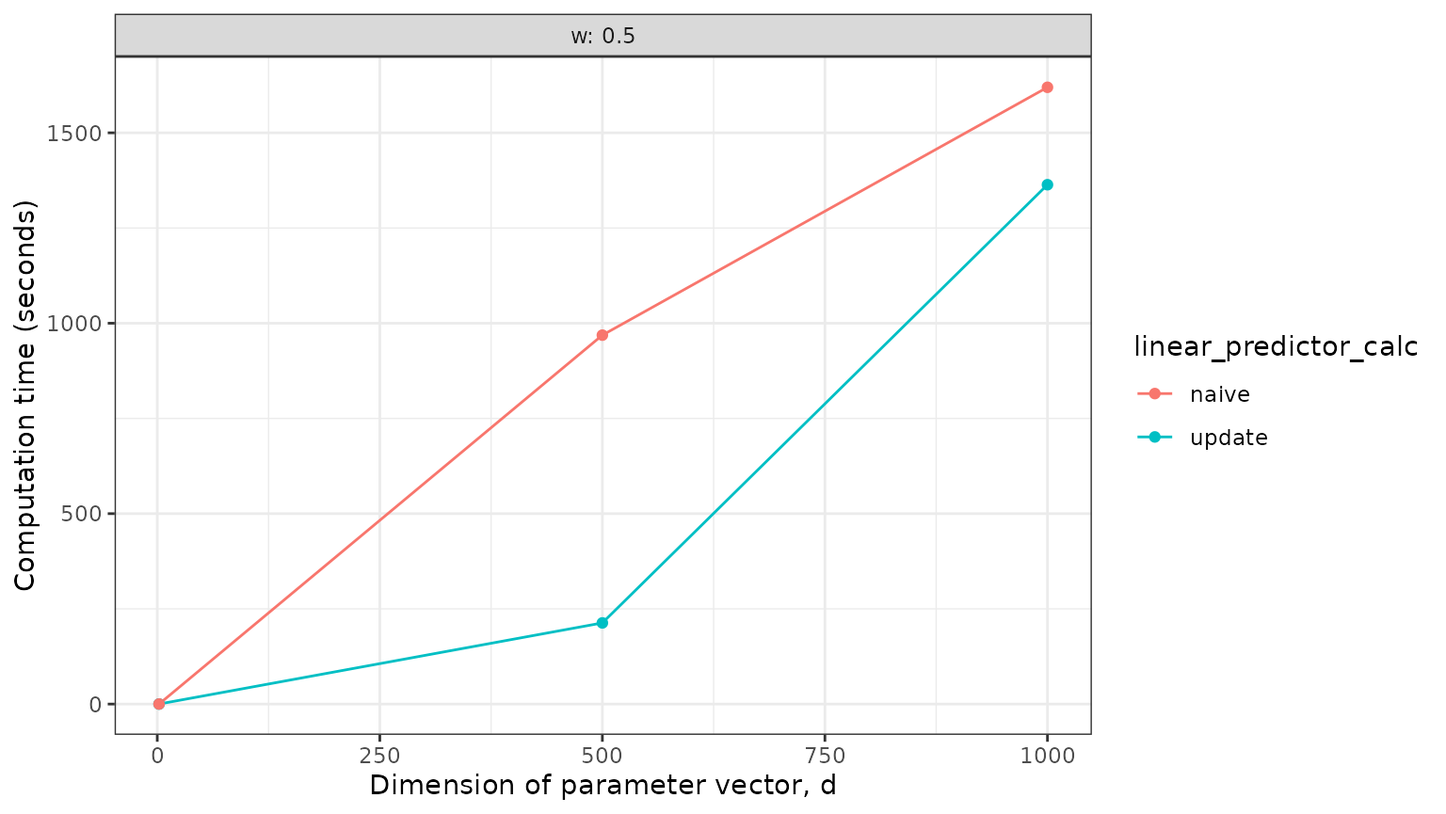
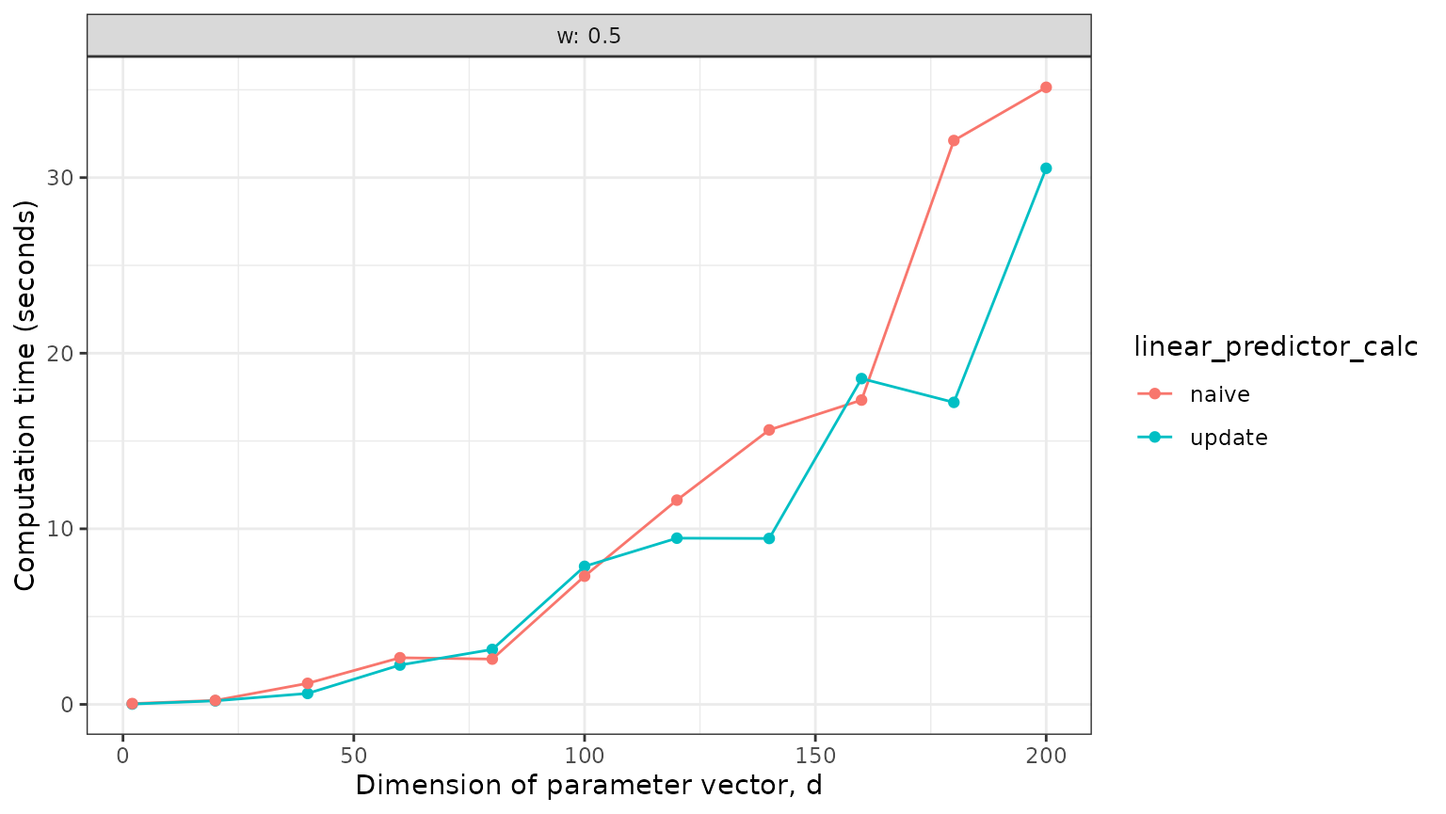
Deploying to gh-pages from @ mathiaslj/mcmcglm@d90c8f59d16a6edef23675d2b547757fa00a66b0 🚀

diff --git a/reference/compare_eta_comptime_across_nvars.html b/reference/compare_eta_comptime_across_nvars.html
@@ -145,40 +145,40 @@ than the number of available cores</p></dd>
 <span class="r-in"><span><span class="fu">compare_eta_comptime_across_nvars</span><span class="op">(</span>n_vars <span class="op">=</span> <span class="fu"><a href="https://rdrr.io/r/base/c.html" class="external-link">c</a></span><span class="op">(</span><span class="fl">2</span>, <span class="fu"><a href="https://rdrr.io/r/base/seq.html" class="external-link">seq</a></span><span class="op">(</span>from <span class="op">=</span> <span class="fl">20</span>, to <span class="op">=</span> <span class="fl">60</span>, by <span class="op">=</span> <span class="fl">20</span><span class="op">)</span><span class="op">)</span>,</span></span>
 <span class="r-in"><span>                                  n_samples <span class="op">=</span> <span class="fl">100</span>,</span></span>
 <span class="r-in"><span>                                  burnin <span class="op">=</span> <span class="fl">20</span><span class="op">)</span></span></span>
-<span class="r-msg co"><span class="r-pr">#&gt;</span> Sampling from posterior <span style="color: #00BB00;">■■■■■■■■                        </span>  22% | ETA:  4s</span>
+<span class="r-msg co"><span class="r-pr">#&gt;</span> Sampling from posterior <span style="color: #00BB00;">■■■■■■■                         </span>  21% | ETA:  4s</span>
+<span class="r-msg co"><span class="r-pr">#&gt;</span> Sampling from posterior <span style="color: #00BB00;">■■■■■■■■■■■■■■■■■■■■■■■■■■■■■■  </span>  96% | ETA:  0s</span>
 <span class="r-msg co"><span class="r-pr">#&gt;</span> Sampling from posterior <span style="color: #00BB00;">■■■■■■■■■■■■■■■■■■■■■■■■■■■■■■■ </span> 100% | ETA:  0s</span>
-<span class="r-msg co"><span class="r-pr">#&gt;</span> Sampling from posterior <span style="color: #00BB00;">■■■■■■■                         </span>  19% | ETA:  4s</span>
-<span class="r-msg co"><span class="r-pr">#&gt;</span> Sampling from posterior <span style="color: #00BB00;">■■■■■■■■■■■■■■■■■■■■■■■■■■■     </span>  86% | ETA:  1s</span>
+<span class="r-msg co"><span class="r-pr">#&gt;</span> Sampling from posterior <span style="color: #00BB00;">■■■■■■■■■■■■■■■■■■■■■■■         </span>  72% | ETA:  1s</span>
 <span class="r-msg co"><span class="r-pr">#&gt;</span> Sampling from posterior <span style="color: #00BB00;">■■■■■■■■■■■■■■■■■■■■■■■■■■■■■■■ </span> 100% | ETA:  0s</span>
-<span class="r-msg co"><span class="r-pr">#&gt;</span> Sampling from posterior <span style="color: #00BB00;">■■■■■■                          </span>  17% | ETA: 13s</span>
-<span class="r-msg co"><span class="r-pr">#&gt;</span> Sampling from posterior <span style="color: #00BB00;">■■■■■■■■■■■■■■■■■■              </span>  57% | ETA:  4s</span>
-<span class="r-msg co"><span class="r-pr">#&gt;</span> Sampling from posterior <span style="color: #00BB00;">■■■■■■■■■■■■■■■■■■■■■■■■■■■■■■  </span>  97% | ETA:  0s</span>
+<span class="r-msg co"><span class="r-pr">#&gt;</span> Sampling from posterior <span style="color: #00BB00;">■■■■                            </span>   9% | ETA: 20s</span>
+<span class="r-msg co"><span class="r-pr">#&gt;</span> Sampling from posterior <span style="color: #00BB00;">■■■■■■■■■■■■■■■                 </span>  48% | ETA:  5s</span>
+<span class="r-msg co"><span class="r-pr">#&gt;</span> Sampling from posterior <span style="color: #00BB00;">■■■■■■■■■■■■■■■■■■■■■■■■■■■     </span>  88% | ETA:  1s</span>
 <span class="r-msg co"><span class="r-pr">#&gt;</span> Sampling from posterior <span style="color: #00BB00;">■■■■■■■■■■■■■■■■■■■■■■■■■■■■■■■ </span> 100% | ETA:  0s</span>
-<span class="r-msg co"><span class="r-pr">#&gt;</span> Sampling from posterior <span style="color: #00BB00;">■■■■■■■                         </span>  20% | ETA: 11s</span>
-<span class="r-msg co"><span class="r-pr">#&gt;</span> Sampling from posterior <span style="color: #00BB00;">■■■■■■■■■■■■■■■■■■              </span>  58% | ETA:  4s</span>
-<span class="r-msg co"><span class="r-pr">#&gt;</span> Sampling from posterior <span style="color: #00BB00;">■■■■■■■■■■■■■■■■■■■■■■■■■■■■■■  </span>  98% | ETA:  0s</span>
-<span class="r-msg co"><span class="r-pr">#&gt;</span> Sampling from posterior <span style="color: #00BB00;">■■■■■■■■■■■■■■■■■■■■■■■■■■■■■■■ </span> 100% | ETA:  0s</span>
-<span class="r-msg co"><span class="r-pr">#&gt;</span> Sampling from posterior <span style="color: #00BB00;">■■                              </span>   3% | ETA:  2m</span>
-<span class="r-msg co"><span class="r-pr">#&gt;</span> Sampling from posterior <span style="color: #00BB00;">■■■■■■                          </span>  17% | ETA: 29s</span>
-<span class="r-msg co"><span class="r-pr">#&gt;</span> Sampling from posterior <span style="color: #00BB00;">■■■■■■■■■■■■                    </span>  37% | ETA: 15s</span>
-<span class="r-msg co"><span class="r-pr">#&gt;</span> Sampling from posterior <span style="color: #00BB00;">■■■■■■■■■■■■■■■■■■■             </span>  59% | ETA:  8s</span>
-<span class="r-msg co"><span class="r-pr">#&gt;</span> Sampling from posterior <span style="color: #00BB00;">■■■■■■■■■■■■■■■■■■■■■■■■■■      </span>  82% | ETA:  3s</span>
+<span class="r-msg co"><span class="r-pr">#&gt;</span> Sampling from posterior <span style="color: #00BB00;">■■■■                            </span>  10% | ETA: 18s</span>
+<span class="r-msg co"><span class="r-pr">#&gt;</span> Sampling from posterior <span style="color: #00BB00;">■■■■■■■■■■■■■■■                 </span>  47% | ETA:  6s</span>
+<span class="r-msg co"><span class="r-pr">#&gt;</span> Sampling from posterior <span style="color: #00BB00;">■■■■■■■■■■■■■■■■■■■■■■■■■■■     </span>  85% | ETA:  1s</span>
 <span class="r-msg co"><span class="r-pr">#&gt;</span> Sampling from posterior <span style="color: #00BB00;">■■■■■■■■■■■■■■■■■■■■■■■■■■■■■■■ </span> 100% | ETA:  0s</span>
 <span class="r-msg co"><span class="r-pr">#&gt;</span> Sampling from posterior <span style="color: #00BB00;">■                               </span>   1% | ETA:  3m</span>
-<span class="r-msg co"><span class="r-pr">#&gt;</span> Sampling from posterior <span style="color: #00BB00;">■■■■■■                          </span>  16% | ETA: 20s</span>
-<span class="r-msg co"><span class="r-pr">#&gt;</span> Sampling from posterior <span style="color: #00BB00;">■■■■■■■■■■■■■                   </span>  40% | ETA: 10s</span>
-<span class="r-msg co"><span class="r-pr">#&gt;</span> Sampling from posterior <span style="color: #00BB00;">■■■■■■■■■■■■■■■■■■■■■           </span>  65% | ETA:  5s</span>
-<span class="r-msg co"><span class="r-pr">#&gt;</span> Sampling from posterior <span style="color: #00BB00;">■■■■■■■■■■■■■■■■■■■■■■■■■■■■    </span>  90% | ETA:  1s</span>
+<span class="r-msg co"><span class="r-pr">#&gt;</span> Sampling from posterior <span style="color: #00BB00;">■■■■                            </span>  10% | ETA: 45s</span>
+<span class="r-msg co"><span class="r-pr">#&gt;</span> Sampling from posterior <span style="color: #00BB00;">■■■■■■■■■■                      </span>  29% | ETA: 19s</span>
+<span class="r-msg co"><span class="r-pr">#&gt;</span> Sampling from posterior <span style="color: #00BB00;">■■■■■■■■■■■■■■■■                </span>  50% | ETA: 11s</span>
+<span class="r-msg co"><span class="r-pr">#&gt;</span> Sampling from posterior <span style="color: #00BB00;">■■■■■■■■■■■■■■■■■■■■■■          </span>  71% | ETA:  6s</span>
+<span class="r-msg co"><span class="r-pr">#&gt;</span> Sampling from posterior <span style="color: #00BB00;">■■■■■■■■■■■■■■■■■■■■■■■■■■■■■   </span>  95% | ETA:  1s</span>
+<span class="r-msg co"><span class="r-pr">#&gt;</span> Sampling from posterior <span style="color: #00BB00;">■■■■■■■■■■■■■■■■■■■■■■■■■■■■■■■ </span> 100% | ETA:  0s</span>
+<span class="r-msg co"><span class="r-pr">#&gt;</span> Sampling from posterior <span style="color: #00BB00;">■■                              </span>   4% | ETA:  1m</span>
+<span class="r-msg co"><span class="r-pr">#&gt;</span> Sampling from posterior <span style="color: #00BB00;">■■■■■■■■■                       </span>  27% | ETA: 15s</span>
+<span class="r-msg co"><span class="r-pr">#&gt;</span> Sampling from posterior <span style="color: #00BB00;">■■■■■■■■■■■■■■■■                </span>  51% | ETA:  8s</span>
+<span class="r-msg co"><span class="r-pr">#&gt;</span> Sampling from posterior <span style="color: #00BB00;">■■■■■■■■■■■■■■■■■■■■■■■         </span>  75% | ETA:  4s</span>
 <span class="r-msg co"><span class="r-pr">#&gt;</span> Sampling from posterior <span style="color: #00BB00;">■■■■■■■■■■■■■■■■■■■■■■■■■■■■■■■ </span> 100% | ETA:  0s</span>
 <span class="r-out co"><span class="r-pr">#&gt;</span>              time linear_predictor_calc n_vars n_samples beta_mean</span>
-<span class="r-out co"><span class="r-pr">#&gt;</span> 1  0.3292544 secs                update      2       100         0</span>
-<span class="r-out co"><span class="r-pr">#&gt;</span> 2  0.2867112 secs                 naive      2       100         0</span>
-<span class="r-out co"><span class="r-pr">#&gt;</span> 3  3.6751025 secs                update     20       100         0</span>
-<span class="r-out co"><span class="r-pr">#&gt;</span> 4  3.7558796 secs                 naive     20       100         0</span>
-<span class="r-out co"><span class="r-pr">#&gt;</span> 5  8.7365577 secs                update     40       100         0</span>
-<span class="r-out co"><span class="r-pr">#&gt;</span> 6  8.9789248 secs                 naive     40       100         0</span>
-<span class="r-out co"><span class="r-pr">#&gt;</span> 7 17.0294173 secs                update     60       100         0</span>
-<span class="r-out co"><span class="r-pr">#&gt;</span> 8 14.0301514 secs                 naive     60       100         0</span>
+<span class="r-out co"><span class="r-pr">#&gt;</span> 1  0.3408594 secs                update      2       100         0</span>
+<span class="r-out co"><span class="r-pr">#&gt;</span> 2  0.3128738 secs                 naive      2       100         0</span>
+<span class="r-out co"><span class="r-pr">#&gt;</span> 3  3.7510772 secs                update     20       100         0</span>
+<span class="r-out co"><span class="r-pr">#&gt;</span> 4  3.8055420 secs                 naive     20       100         0</span>
+<span class="r-out co"><span class="r-pr">#&gt;</span> 5  8.9635484 secs                update     40       100         0</span>
+<span class="r-out co"><span class="r-pr">#&gt;</span> 6  9.2256913 secs                 naive     40       100         0</span>
+<span class="r-out co"><span class="r-pr">#&gt;</span> 7 17.5429440 secs                update     60       100         0</span>
+<span class="r-out co"><span class="r-pr">#&gt;</span> 8 14.3304586 secs                 naive     60       100         0</span>
 <span class="r-out co"><span class="r-pr">#&gt;</span>   beta_variance   family sd                 qslice_fun   w parallelised</span>
 <span class="r-out co"><span class="r-pr">#&gt;</span> 1             1 gaussian  1 qslice::slice_stepping_out 0.5        FALSE</span>
 <span class="r-out co"><span class="r-pr">#&gt;</span> 2             1 gaussian  1 qslice::slice_stepping_out 0.5        FALSE</span>

diff --git a/reference/plot_eta_comptime.html b/reference/plot_eta_comptime.html
@@ -75,29 +75,31 @@ affects runtime</p></dd>
 <span class="r-in"><span><span class="va">res</span> <span class="op">&lt;-</span> <span class="fu"><a href="compare_eta_comptime_across_nvars.html">compare_eta_comptime_across_nvars</a></span><span class="op">(</span>n_vars <span class="op">=</span> <span class="fu"><a href="https://rdrr.io/r/base/c.html" class="external-link">c</a></span><span class="op">(</span><span class="fl">2</span>, <span class="fu"><a href="https://rdrr.io/r/base/seq.html" class="external-link">seq</a></span><span class="op">(</span>from <span class="op">=</span> <span class="fl">20</span>, to <span class="op">=</span> <span class="fl">60</span>, by <span class="op">=</span> <span class="fl">20</span><span class="op">)</span><span class="op">)</span>,</span></span>
 <span class="r-in"><span>                                         n_samples <span class="op">=</span> <span class="fl">100</span>,</span></span>
 <span class="r-in"><span>                                         burnin <span class="op">=</span> <span class="fl">20</span><span class="op">)</span></span></span>
-<span class="r-msg co"><span class="r-pr">#&gt;</span> Sampling from posterior <span style="color: #00BB00;">■■■■■■                          </span>  18% | ETA:  5s</span>
-<span class="r-msg co"><span class="r-pr">#&gt;</span> Sampling from posterior <span style="color: #00BB00;">■■■■■■■■■                       </span>  27% | ETA:  4s</span>
+<span class="r-msg co"><span class="r-pr">#&gt;</span> Sampling from posterior <span style="color: #00BB00;">■■■■■■                          </span>  17% | ETA:  5s</span>
+<span class="r-msg co"><span class="r-pr">#&gt;</span> Sampling from posterior <span style="color: #00BB00;">■■■■■■■■■■■                     </span>  35% | ETA:  3s</span>
 <span class="r-msg co"><span class="r-pr">#&gt;</span> Sampling from posterior <span style="color: #00BB00;">■■■■■■■■■■■■■■■■■■■■■■■■■■■■■■■ </span> 100% | ETA:  0s</span>
-<span class="r-msg co"><span class="r-pr">#&gt;</span> Sampling from posterior <span style="color: #00BB00;">■■■■■■■■■                       </span>  25% | ETA:  3s</span>
+<span class="r-msg co"><span class="r-pr">#&gt;</span> Sampling from posterior <span style="color: #00BB00;">■■■■■■■■                        </span>  24% | ETA:  3s</span>
 <span class="r-msg co"><span class="r-pr">#&gt;</span> Sampling from posterior <span style="color: #00BB00;">■■■■■■■■■■■■■■■■■■■■■■■■■■■■■■■ </span> 100% | ETA:  0s</span>
-<span class="r-msg co"><span class="r-pr">#&gt;</span> Sampling from posterior <span style="color: #00BB00;">■■■■■■■■                        </span>  24% | ETA:  9s</span>
-<span class="r-msg co"><span class="r-pr">#&gt;</span> Sampling from posterior <span style="color: #00BB00;">■■■■■■■■■■■■■■■■■■■■            </span>  62% | ETA:  4s</span>
-<span class="r-msg co"><span class="r-pr">#&gt;</span> Sampling from posterior <span style="color: #00BB00;">■■■■■■■■■■■■■■■■■■■■■■■■■■■■■■■ </span> 100% | ETA:  0s</span>
-<span class="r-msg co"><span class="r-pr">#&gt;</span> Sampling from posterior <span style="color: #00BB00;">■■■■■                           </span>  12% | ETA: 22s</span>
-<span class="r-msg co"><span class="r-pr">#&gt;</span> Sampling from posterior <span style="color: #00BB00;">■■■■■■■■■■■■■■■■■               </span>  52% | ETA:  6s</span>
-<span class="r-msg co"><span class="r-pr">#&gt;</span> Sampling from posterior <span style="color: #00BB00;">■■■■■■■■■■■■■■■■■■■■■■■■■■■■■■  </span>  96% | ETA:  0s</span>
-<span class="r-msg co"><span class="r-pr">#&gt;</span> Sampling from posterior <span style="color: #00BB00;">■■■■■■■■■■■■■■■■■■■■■■■■■■■■■■■ </span> 100% | ETA:  0s</span>
-<span class="r-msg co"><span class="r-pr">#&gt;</span> Sampling from posterior <span style="color: #00BB00;">■■                              </span>   2% | ETA:  2m</span>
-<span class="r-msg co"><span class="r-pr">#&gt;</span> Sampling from posterior <span style="color: #00BB00;">■■■■■                           </span>  14% | ETA: 35s</span>
-<span class="r-msg co"><span class="r-pr">#&gt;</span> Sampling from posterior <span style="color: #00BB00;">■■■■■■■■■■■                     </span>  33% | ETA: 18s</span>
-<span class="r-msg co"><span class="r-pr">#&gt;</span> Sampling from posterior <span style="color: #00BB00;">■■■■■■■■■■■■■■■■■               </span>  54% | ETA: 10s</span>
-<span class="r-msg co"><span class="r-pr">#&gt;</span> Sampling from posterior <span style="color: #00BB00;">■■■■■■■■■■■■■■■■■■■■■■■■        </span>  77% | ETA:  4s</span>
+<span class="r-msg co"><span class="r-pr">#&gt;</span> Sampling from posterior <span style="color: #00BB00;">■■                              </span>   2% | ETA:  1m</span>
+<span class="r-msg co"><span class="r-pr">#&gt;</span> Sampling from posterior <span style="color: #00BB00;">■■■■■■■■■                       </span>  25% | ETA:  9s</span>
+<span class="r-msg co"><span class="r-pr">#&gt;</span> Sampling from posterior <span style="color: #00BB00;">■■■■■■■■■■■■■■■■■■■             </span>  61% | ETA:  4s</span>
 <span class="r-msg co"><span class="r-pr">#&gt;</span> Sampling from posterior <span style="color: #00BB00;">■■■■■■■■■■■■■■■■■■■■■■■■■■■■■■■ </span>  99% | ETA:  0s</span>
 <span class="r-msg co"><span class="r-pr">#&gt;</span> Sampling from posterior <span style="color: #00BB00;">■■■■■■■■■■■■■■■■■■■■■■■■■■■■■■■ </span> 100% | ETA:  0s</span>
-<span class="r-msg co"><span class="r-pr">#&gt;</span> Sampling from posterior <span style="color: #00BB00;">■■■■■                           </span>  14% | ETA: 18s</span>
-<span class="r-msg co"><span class="r-pr">#&gt;</span> Sampling from posterior <span style="color: #00BB00;">■■■■■■■■■■■■                    </span>  37% | ETA: 10s</span>
-<span class="r-msg co"><span class="r-pr">#&gt;</span> Sampling from posterior <span style="color: #00BB00;">■■■■■■■■■■■■■■■■■■■■            </span>  62% | ETA:  5s</span>
-<span class="r-msg co"><span class="r-pr">#&gt;</span> Sampling from posterior <span style="color: #00BB00;">■■■■■■■■■■■■■■■■■■■■■■■■■■■     </span>  87% | ETA:  2s</span>
+<span class="r-msg co"><span class="r-pr">#&gt;</span> Sampling from posterior <span style="color: #00BB00;">■■■■                            </span>  10% | ETA: 26s</span>
+<span class="r-msg co"><span class="r-pr">#&gt;</span> Sampling from posterior <span style="color: #00BB00;">■■■■■■■■■■■■■■■                 </span>  48% | ETA:  6s</span>
+<span class="r-msg co"><span class="r-pr">#&gt;</span> Sampling from posterior <span style="color: #00BB00;">■■■■■■■■■■■■■■■■■■■■■■■■■■■■    </span>  91% | ETA:  1s</span>
+<span class="r-msg co"><span class="r-pr">#&gt;</span> Sampling from posterior <span style="color: #00BB00;">■■■■■■■■■■■■■■■■■■■■■■■■■■■■■■■ </span> 100% | ETA:  0s</span>
+<span class="r-msg co"><span class="r-pr">#&gt;</span> Sampling from posterior <span style="color: #00BB00;">■                               </span>   1% | ETA:  4m</span>
+<span class="r-msg co"><span class="r-pr">#&gt;</span> Sampling from posterior <span style="color: #00BB00;">■■■■                            </span>  11% | ETA: 44s</span>
+<span class="r-msg co"><span class="r-pr">#&gt;</span> Sampling from posterior <span style="color: #00BB00;">■■■■■■■■■■                      </span>  29% | ETA: 20s</span>
+<span class="r-msg co"><span class="r-pr">#&gt;</span> Sampling from posterior <span style="color: #00BB00;">■■■■■■■■■■■■■■■■                </span>  50% | ETA: 11s</span>
+<span class="r-msg co"><span class="r-pr">#&gt;</span> Sampling from posterior <span style="color: #00BB00;">■■■■■■■■■■■■■■■■■■■■■■■         </span>  72% | ETA:  6s</span>
+<span class="r-msg co"><span class="r-pr">#&gt;</span> Sampling from posterior <span style="color: #00BB00;">■■■■■■■■■■■■■■■■■■■■■■■■■■■■■   </span>  95% | ETA:  1s</span>
+<span class="r-msg co"><span class="r-pr">#&gt;</span> Sampling from posterior <span style="color: #00BB00;">■■■■■■■■■■■■■■■■■■■■■■■■■■■■■■■ </span> 100% | ETA:  0s</span>
+<span class="r-msg co"><span class="r-pr">#&gt;</span> Sampling from posterior <span style="color: #00BB00;">■■■                             </span>   8% | ETA: 25s</span>
+<span class="r-msg co"><span class="r-pr">#&gt;</span> Sampling from posterior <span style="color: #00BB00;">■■■■■■■■■■■                     </span>  32% | ETA: 11s</span>
+<span class="r-msg co"><span class="r-pr">#&gt;</span> Sampling from posterior <span style="color: #00BB00;">■■■■■■■■■■■■■■■■■■              </span>  56% | ETA:  6s</span>
+<span class="r-msg co"><span class="r-pr">#&gt;</span> Sampling from posterior <span style="color: #00BB00;">■■■■■■■■■■■■■■■■■■■■■■■■■       </span>  81% | ETA:  3s</span>
 <span class="r-msg co"><span class="r-pr">#&gt;</span> Sampling from posterior <span style="color: #00BB00;">■■■■■■■■■■■■■■■■■■■■■■■■■■■■■■■ </span> 100% | ETA:  0s</span>
 <span class="r-in"><span><span class="fu">plot_eta_comptime</span><span class="op">(</span><span class="va">res</span><span class="op">)</span></span></span>
 <span class="r-msg co"><span class="r-pr">#&gt;</span> Don't know how to automatically pick scale for object of type <span style="color: #0000BB;">&lt;difftime&gt;</span>.</span>

diff --git a/articles/performance.html b/articles/performance.html
@@ -74,51 +74,10 @@
 </h3>
 <div class="sourceCode" id="cb1"><pre class="downlit sourceCode r">
 <code class="sourceCode R"><span><span class="va">res</span> <span class="op">&lt;-</span> <span class="fu"><a href="../reference/compare_eta_comptime_across_nvars.html">compare_eta_comptime_across_nvars</a></span><span class="op">(</span></span>
-<span>  n_vars <span class="op">=</span> <span class="fu"><a href="https://rdrr.io/r/base/c.html" class="external-link">c</a></span><span class="op">(</span><span class="fl">2</span>, <span class="fu"><a href="https://rdrr.io/r/base/seq.html" class="external-link">seq</a></span><span class="op">(</span>from <span class="op">=</span> <span class="fl">500</span>, to <span class="op">=</span> <span class="fl">1000</span>, by <span class="op">=</span> <span class="fl">500</span><span class="op">)</span><span class="op">)</span>,</span>
-<span>  n_samples <span class="op">=</span> <span class="fl">10</span>,</span>
-<span>  burnin <span class="op">=</span> <span class="fl">1</span>,</span>
-<span>  w <span class="op">=</span> <span class="fl">0.5</span>,</span>
-<span>  parallelise <span class="op">=</span> <span class="cn">TRUE</span><span class="op">)</span></span>
-<span><span class="co">#&gt; Sampling from posterior <span style="color: #00BB00;">■■■■                            </span>  10% | ETA: 24m</span></span>
-<span><span class="co">#&gt; Sampling from posterior <span style="color: #00BB00;">■■■■■■■                         </span>  20% | ETA: 11m</span></span>
-<span><span class="co">#&gt; Sampling from posterior <span style="color: #00BB00;">■■■■■■■■■■                      </span>  30% | ETA:  7m</span></span>
-<span><span class="co">#&gt; Sampling from posterior <span style="color: #00BB00;">■■■■■■■■■■■■■                   </span>  40% | ETA:  5m</span></span>
-<span><span class="co">#&gt; Sampling from posterior <span style="color: #00BB00;">■■■■■■■■■■■■■■■■                </span>  50% | ETA:  3m</span></span>
-<span><span class="co">#&gt; Sampling from posterior <span style="color: #00BB00;">■■■■■■■■■■■■■■■■■■■             </span>  60% | ETA:  2m</span></span>
-<span><span class="co">#&gt; Sampling from posterior <span style="color: #00BB00;">■■■■■■■■■■■■■■■■■■■■■■          </span>  70% | ETA:  1m</span></span>
-<span><span class="co">#&gt; Sampling from posterior <span style="color: #00BB00;">■■■■■■■■■■■■■■■■■■■■■■■■■       </span>  80% | ETA:  1m</span></span>
-<span><span class="co">#&gt; Sampling from posterior <span style="color: #00BB00;">■■■■■■■■■■■■■■■■■■■■■■■■■■■■    </span>  90% | ETA: 23s</span></span>
-<span><span class="co">#&gt; Sampling from posterior <span style="color: #00BB00;">■■■■■■■■■■■■■■■■■■■■■■■■■■■■■■■ </span> 100% | ETA:  0s</span></span>
-<span><span class="co">#&gt; Sampling from posterior <span style="color: #00BB00;">■■■■                            </span>  10% | ETA:  1h</span></span>
-<span><span class="co">#&gt; Sampling from posterior <span style="color: #00BB00;">■■■■■■■                         </span>  20% | ETA: 40m</span></span>
-<span><span class="co">#&gt; Sampling from posterior <span style="color: #00BB00;">■■■■■■■■■■                      </span>  30% | ETA: 27m</span></span>
-<span><span class="co">#&gt; Sampling from posterior <span style="color: #00BB00;">■■■■■■■■■■■■■                   </span>  40% | ETA: 20m</span></span>
-<span><span class="co">#&gt; Sampling from posterior <span style="color: #00BB00;">■■■■■■■■■■■■■■■■                </span>  50% | ETA: 14m</span></span>
-<span><span class="co">#&gt; Sampling from posterior <span style="color: #00BB00;">■■■■■■■■■■■■■■■■■■■             </span>  60% | ETA: 10m</span></span>
-<span><span class="co">#&gt; Sampling from posterior <span style="color: #00BB00;">■■■■■■■■■■■■■■■■■■■■■■          </span>  70% | ETA:  7m</span></span>
-<span><span class="co">#&gt; Sampling from posterior <span style="color: #00BB00;">■■■■■■■■■■■■■■■■■■■■■■■■■       </span>  80% | ETA:  4m</span></span>
-<span><span class="co">#&gt; Sampling from posterior <span style="color: #00BB00;">■■■■■■■■■■■■■■■■■■■■■■■■■■■■    </span>  90% | ETA:  2m</span></span>
-<span><span class="co">#&gt; Sampling from posterior <span style="color: #00BB00;">■■■■■■■■■■■■■■■■■■■■■■■■■■■■■■■ </span> 100% | ETA:  0s</span></span>
-<span><span class="co">#&gt; Sampling from posterior <span style="color: #00BB00;">■■■■                            </span>  10% | ETA:  3h</span></span>
-<span><span class="co">#&gt; Sampling from posterior <span style="color: #00BB00;">■■■■■■■                         </span>  20% | ETA:  1h</span></span>
-<span><span class="co">#&gt; Sampling from posterior <span style="color: #00BB00;">■■■■■■■■■■                      </span>  30% | ETA: 47m</span></span>
-<span><span class="co">#&gt; Sampling from posterior <span style="color: #00BB00;">■■■■■■■■■■■■■                   </span>  40% | ETA: 31m</span></span>
-<span><span class="co">#&gt; Sampling from posterior <span style="color: #00BB00;">■■■■■■■■■■■■■■■■                </span>  50% | ETA: 21m</span></span>
-<span><span class="co">#&gt; Sampling from posterior <span style="color: #00BB00;">■■■■■■■■■■■■■■■■■■■             </span>  60% | ETA: 14m</span></span>
-<span><span class="co">#&gt; Sampling from posterior <span style="color: #00BB00;">■■■■■■■■■■■■■■■■■■■■■■          </span>  70% | ETA:  9m</span></span>
-<span><span class="co">#&gt; Sampling from posterior <span style="color: #00BB00;">■■■■■■■■■■■■■■■■■■■■■■■■■       </span>  80% | ETA:  6m</span></span>
-<span><span class="co">#&gt; Sampling from posterior <span style="color: #00BB00;">■■■■■■■■■■■■■■■■■■■■■■■■■■■■    </span>  90% | ETA:  2m</span></span>
-<span><span class="co">#&gt; Sampling from posterior <span style="color: #00BB00;">■■■■■■■■■■■■■■■■■■■■■■■■■■■■■■■ </span> 100% | ETA:  0s</span></span>
-<span><span class="co">#&gt; Sampling from posterior <span style="color: #00BB00;">■■■■                            </span>  10% | ETA:  2h</span></span>
-<span><span class="co">#&gt; Sampling from posterior <span style="color: #00BB00;">■■■■■■■                         </span>  20% | ETA:  1h</span></span>
-<span><span class="co">#&gt; Sampling from posterior <span style="color: #00BB00;">■■■■■■■■■■                      </span>  30% | ETA:  1h</span></span>
-<span><span class="co">#&gt; Sampling from posterior <span style="color: #00BB00;">■■■■■■■■■■■■■                   </span>  40% | ETA: 35m</span></span>
-<span><span class="co">#&gt; Sampling from posterior <span style="color: #00BB00;">■■■■■■■■■■■■■■■■                </span>  50% | ETA: 25m</span></span>
-<span><span class="co">#&gt; Sampling from posterior <span style="color: #00BB00;">■■■■■■■■■■■■■■■■■■■             </span>  60% | ETA: 17m</span></span>
-<span><span class="co">#&gt; Sampling from posterior <span style="color: #00BB00;">■■■■■■■■■■■■■■■■■■■■■■          </span>  70% | ETA: 11m</span></span>
-<span><span class="co">#&gt; Sampling from posterior <span style="color: #00BB00;">■■■■■■■■■■■■■■■■■■■■■■■■■       </span>  80% | ETA:  7m</span></span>
-<span><span class="co">#&gt; Sampling from posterior <span style="color: #00BB00;">■■■■■■■■■■■■■■■■■■■■■■■■■■■■    </span>  90% | ETA:  3m</span></span>
-<span><span class="co">#&gt; Sampling from posterior <span style="color: #00BB00;">■■■■■■■■■■■■■■■■■■■■■■■■■■■■■■■ </span> 100% | ETA:  0s</span></span></code></pre></div>
+<span>  n_vars <span class="op">=</span> <span class="fu"><a href="https://rdrr.io/r/base/c.html" class="external-link">c</a></span><span class="op">(</span><span class="fl">2</span>, <span class="fu"><a href="https://rdrr.io/r/base/seq.html" class="external-link">seq</a></span><span class="op">(</span>from <span class="op">=</span> <span class="fl">20</span>, to <span class="op">=</span> <span class="fl">200</span>, by <span class="op">=</span> <span class="fl">20</span><span class="op">)</span><span class="op">)</span>,</span>
+<span>  n_samples <span class="op">=</span> <span class="fl">1</span>,</span>
+<span>  burnin <span class="op">=</span> <span class="fl">0</span>,</span>
+<span>  w <span class="op">=</span> <span class="fl">0.5</span><span class="op">)</span></span></code></pre></div>
 <div class="sourceCode" id="cb2"><pre class="downlit sourceCode r">
 <code class="sourceCode R"><span><span class="fu"><a href="../reference/plot_eta_comptime.html">plot_eta_comptime</a></span><span class="op">(</span><span class="va">res</span>, facet_by <span class="op">=</span> <span class="st">"w"</span><span class="op">)</span></span>
 <span><span class="co">#&gt; Don't know how to automatically pick scale for object of type <span style="color: #0000BB;">&lt;difftime&gt;</span>.</span></span>

diff --git a/index.html b/index.html
@@ -72,7 +72,7 @@
 </h2>
 <p>We first simulate some data from a linear model to use for showcasing the use of <code>mcmcglm</code> for a gaussian family.</p>
 <div class="sourceCode" id="cb2"><pre class="downlit sourceCode r">
-<code class="sourceCode R"><span><span class="va">n</span> <span class="op">&lt;-</span> <span class="fl">100</span></span>
+<code class="sourceCode R"><span><span class="va">n</span> <span class="op">&lt;-</span> <span class="fl">1000</span></span>
 <span><span class="va">x1</span> <span class="op">&lt;-</span> <span class="fu"><a href="https://rdrr.io/r/stats/Normal.html" class="external-link">rnorm</a></span> <span class="op">(</span><span class="va">n</span><span class="op">)</span></span>
 <span><span class="va">x2</span> <span class="op">&lt;-</span> <span class="fu"><a href="https://rdrr.io/r/stats/Binomial.html" class="external-link">rbinom</a></span> <span class="op">(</span><span class="va">n</span>, <span class="fl">1</span>, <span class="fl">.5</span><span class="op">)</span></span>
 <span><span class="va">b0</span> <span class="op">&lt;-</span> <span class="fl">1</span></span>
@@ -108,23 +108,28 @@
 <span><span class="co">#&gt; </span></span>
 <span><span class="co">#&gt; Average of parameter samples:</span></span>
 <span><span class="co">#&gt;   (Intercept)       X1       X2</span></span>
-<span><span class="co">#&gt; 1    1.081188 1.563513 1.733437</span></span></code></pre></div>
+<span><span class="co">#&gt; 1    1.011134 1.490459 2.026047</span></span></code></pre></div>
 <p>summarising the call of the function with averages of the samples of each parameter in the GLM model.</p>
 <div class="section level3">
 <h3 id="investigating-results">Investigating results<a class="anchor" aria-label="anchor" href="#investigating-results"></a>
 </h3>
-<p>The full data set of samples can be accessed with the <code>samples</code> function:</p>
+<p>The averages shown in the print method of the object can be retrieved with the generic <code>coef</code> like so:</p>
 <div class="sourceCode" id="cb5"><pre class="downlit sourceCode r">
-<code class="sourceCode R"><span><span class="fu"><a href="https://rdrr.io/r/utils/head.html" class="external-link">head</a></span><span class="op">(</span><span class="fu"><a href="reference/samples.html">samples</a></span><span class="op">(</span><span class="va">norm</span><span class="op">)</span><span class="op">)</span></span>
-<span><span class="co">#&gt;   (Intercept)         X1         X2 iteration burnin</span></span>
-<span><span class="co">#&gt; 1   -1.096156 0.04905045 -1.1984959         0   TRUE</span></span>
-<span><span class="co">#&gt; 2    5.150198 2.27939313 -2.0547715         1   TRUE</span></span>
-<span><span class="co">#&gt; 3    1.171198 2.10736753 -1.4556810         2   TRUE</span></span>
-<span><span class="co">#&gt; 4    2.201093 1.02283189  0.1304377         3   TRUE</span></span>
-<span><span class="co">#&gt; 5    1.761626 1.99163723  0.3076245         4   TRUE</span></span>
-<span><span class="co">#&gt; 6    1.715483 1.29845999  1.5699513         5   TRUE</span></span></code></pre></div>
-<p>A trace plot can be seen with the function <code>trace_plot</code>:</p>
+<code class="sourceCode R"><span><span class="fu"><a href="https://rdrr.io/r/stats/coef.html" class="external-link">coef</a></span><span class="op">(</span><span class="va">norm</span><span class="op">)</span></span>
+<span><span class="co">#&gt;   (Intercept)       X1       X2</span></span>
+<span><span class="co">#&gt; 1    1.011134 1.490459 2.026047</span></span></code></pre></div>
+<p>The full data set of samples can be accessed with the <code>samples</code> function:</p>
 <div class="sourceCode" id="cb6"><pre class="downlit sourceCode r">
+<code class="sourceCode R"><span><span class="fu"><a href="https://rdrr.io/r/utils/head.html" class="external-link">head</a></span><span class="op">(</span><span class="fu"><a href="reference/samples.html">samples</a></span><span class="op">(</span><span class="va">norm</span><span class="op">)</span><span class="op">)</span></span>
+<span><span class="co">#&gt;   (Intercept)           X1          X2 iteration burnin</span></span>
+<span><span class="co">#&gt; 1   0.6173367 -0.004541141 -0.09125636         0   TRUE</span></span>
+<span><span class="co">#&gt; 2   2.6508146  0.281295470  0.68343132         1   TRUE</span></span>
+<span><span class="co">#&gt; 3   0.8240996  0.324627659  2.30889073         2   TRUE</span></span>
+<span><span class="co">#&gt; 4   0.8170086  1.028326905  2.20351455         3   TRUE</span></span>
+<span><span class="co">#&gt; 5   0.8777350  1.592074284  2.16115289         4   TRUE</span></span>
+<span><span class="co">#&gt; 6   0.9092187  1.442872350  2.02913214         5   TRUE</span></span></code></pre></div>
+<p>A trace plot can be seen with the function <code>trace_plot</code>:</p>
+<div class="sourceCode" id="cb7"><pre class="downlit sourceCode r">
 <code class="sourceCode R"><span><span class="fu"><a href="reference/trace_plot.html">trace_plot</a></span><span class="op">(</span><span class="va">norm</span><span class="op">)</span></span></code></pre></div>
 <p><img src="reference/figures/README-gaussian-trace-1.png" width="100%"></p>
 <!-- ## Example -->

diff --git a/reference/plot_mcmcglm_across_tuningparams.html b/reference/plot_mcmcglm_across_tuningparams.html
@@ -85,10 +85,13 @@ a call to <a href="mcmcglm_across_tuningparams.html">mcmcglm_across_tuningparams
 <span class="r-in"><span>   family <span class="op">=</span> <span class="st">"gaussian"</span>,</span></span>
 <span class="r-in"><span>   data <span class="op">=</span> <span class="va">dat_norm</span></span></span>
 <span class="r-in"><span><span class="op">)</span></span></span>
-<span class="r-msg co"><span class="r-pr">#&gt;</span> Sampling from posterior <span style="color: #00BB00;">■■■■■■■■■■■■■■■                 </span>  48% | ETA:  1s</span>
-<span class="r-msg co"><span class="r-pr">#&gt;</span> Sampling from posterior <span style="color: #00BB00;">■■■■■■■■■■■■■■■■■■■■■■■■■■■■■■  </span>  95% | ETA:  0s</span>
+<span class="r-msg co"><span class="r-pr">#&gt;</span> Sampling from posterior <span style="color: #00BB00;">■■■■■■■■■■■■■■■■                </span>  50% | ETA:  1s</span>
 <span class="r-msg co"><span class="r-pr">#&gt;</span> Sampling from posterior <span style="color: #00BB00;">■■■■■■■■■■■■■■■■■■■■■■■■■■■■■■■ </span> 100% | ETA:  0s</span>
-<span class="r-msg co"><span class="r-pr">#&gt;</span> Sampling from posterior <span style="color: #00BB00;">■■■■■■■■■■■■■■                  </span>  44% | ETA:  1s</span>
+<span class="r-msg co"><span class="r-pr">#&gt;</span> Sampling from posterior <span style="color: #00BB00;">■■■■■■■■■■■■■■■                 </span>  47% | ETA:  1s</span>
+<span class="r-msg co"><span class="r-pr">#&gt;</span> Sampling from posterior <span style="color: #00BB00;">■■■■■■■■■■■■■■■■■■■■■■■■■■■■■■■ </span> 100% | ETA:  0s</span>
+<span class="r-msg co"><span class="r-pr">#&gt;</span> Sampling from posterior <span style="color: #00BB00;">■■■■■■■■■■■■■■■■■■■■■■■■■■■■    </span>  90% | ETA:  0s</span>
+<span class="r-msg co"><span class="r-pr">#&gt;</span> Sampling from posterior <span style="color: #00BB00;">■■■■■■■■■■■■■■■■■■■■■■■■■■■■■■■ </span> 100% | ETA:  0s</span>
+<span class="r-msg co"><span class="r-pr">#&gt;</span> Sampling from posterior <span style="color: #00BB00;">■■■■■■■■■■■■■■■■■■■■■■■■■■■■■■  </span>  96% | ETA:  0s</span>
 <span class="r-msg co"><span class="r-pr">#&gt;</span> Sampling from posterior <span style="color: #00BB00;">■■■■■■■■■■■■■■■■■■■■■■■■■■■■■■■ </span> 100% | ETA:  0s</span>
 <span class="r-in"><span></span></span>
 <span class="r-in"><span><span class="fu">plot_mcmcglm_across_tuningparams</span><span class="op">(</span><span class="va">w05_mcmcglms</span><span class="op">)</span></span></span>
